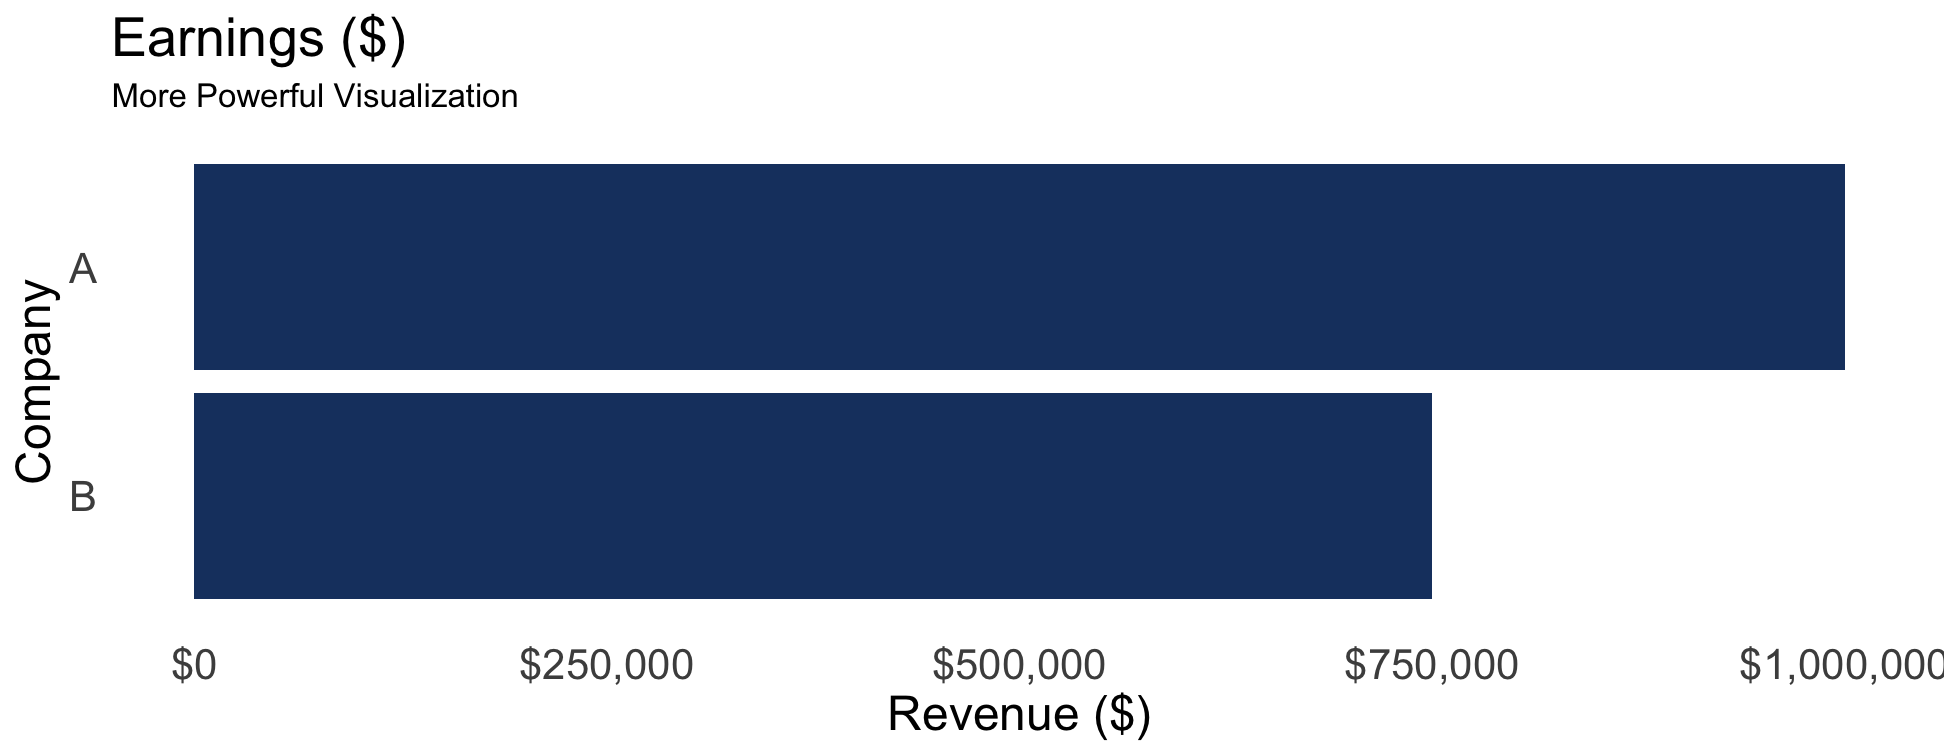
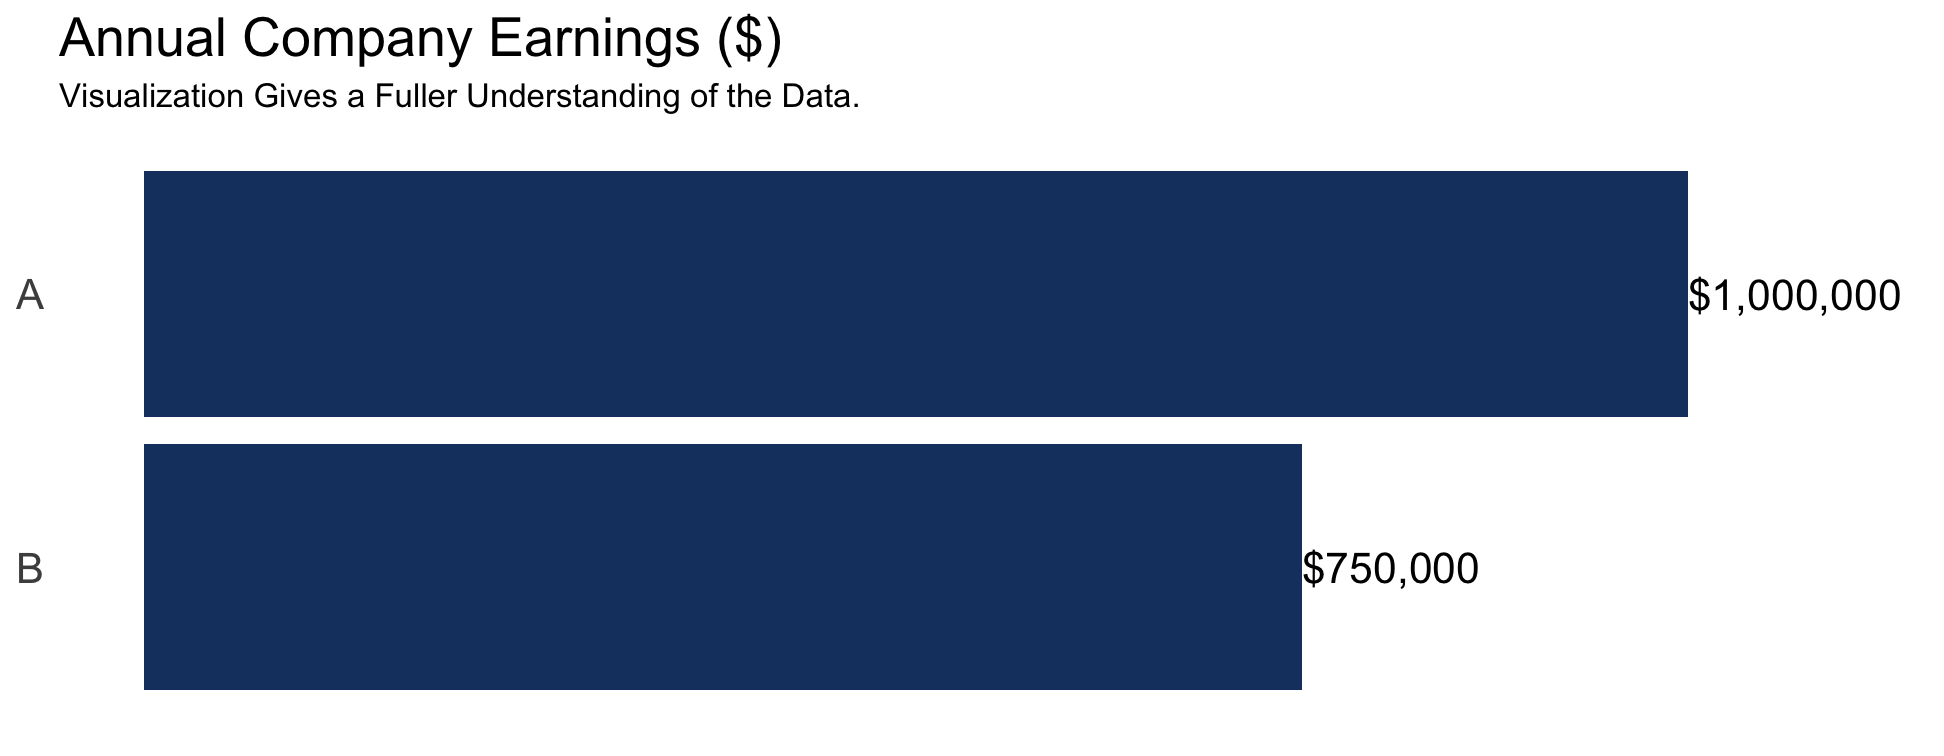
progress point

diff --git a/Data Visualization/Data-Visualization.html b/Data Visualization/Data-Visualization.html
@@ -243,18 +243,80 @@ class: left, middle
 # Plots Speak Louder than Words
 
 .pull-left[
-&gt; Company A had revenues of $1MM and Company B had revenues of $750k.
+&gt; Company A had revenues of $1MM and Company B had revenues of $750k in FY2021.
 
 ]
 
 .pull-right[
 &lt;img src="Data-Visualization_files/figure-html/plots-1.png" width="100%" /&gt;
 ]
+
+---
+
+class: left, middle
+
+# Let the Data Speak for Itself
+
+.pull-left[
+Do not use any bs to make the graph "pretty." A clean crisp chart allows the 
+reader to focus on the data and the message of the story.
+
+This means:
+
+1. No 3D rendering EVER
+2. No "pretty" colors (more on this soon)
+3. No heavy grid lines
+4. NEVER NEVER NEVER a pie chart (though the WSJ doesn't agree with me)
+]
+
+.pull-right[
+This is bad... e
+]
+
+---
+
+# Composing Data Graphics
+
+Anyone can create a data visualization - the hard part is making it tell the 
+correct story in the easiest to understand way. 
+
+
+```r
+bad_dat &lt;- data.frame(variable = c("a", "b", "c", "d", "e"),
+                      value = c(22, 21, 20, 19, 18))
+
+bad_graph &lt;- ggplot(bad_dat, aes(x = "", y = value, fill = variable)) +
+    geom_bar(stat = "identity") + 
+    coord_polar("y", start = 0) + 
+    theme(legend.position = "top",
+          legend.title = element_blank(),
+          panel.background = element_blank(),
+          axis.ticks = element_blank(),
+          axis.title = element_blank())
+
+better_graph &lt;- ggplot(bad_dat, aes(x = variable, y = value, fill = variable)) +
+    geom_bar(stat = "identity") + 
+    geom_text(aes(label = value), color = "black", nudge_y = 1) + 
+    theme(legend.position = "top",
+          legend.title = element_blank(),
+          panel.background = element_blank(),
+          axis.ticks = element_blank(),
+          axis.title = element_blank(),
+          panel.grid.major.y = element_line(color = "light gray"))
+```
+
+
+.pull-left[
+&lt;img src="Data-Visualization_files/figure-html/bad_graph-1.png" width="100%" /&gt;
+]
+
+.pull-right[
+&lt;img src="Data-Visualization_files/figure-html/better_graph-1.png" width="100%" /&gt;
+]
     </textarea>
 <style data-target="print-only">@media screen {.remark-slide-container{display:block;}.remark-slide-scaler{box-shadow:none;}}</style>
 <script src="https://remarkjs.com/downloads/remark-latest.min.js"></script>
 <script>var slideshow = remark.create({
-"slideNumberFormat": "%current%",
 "highlightStyle": "github",
 "highlightLines": true,
 "ratio": "16:9",
